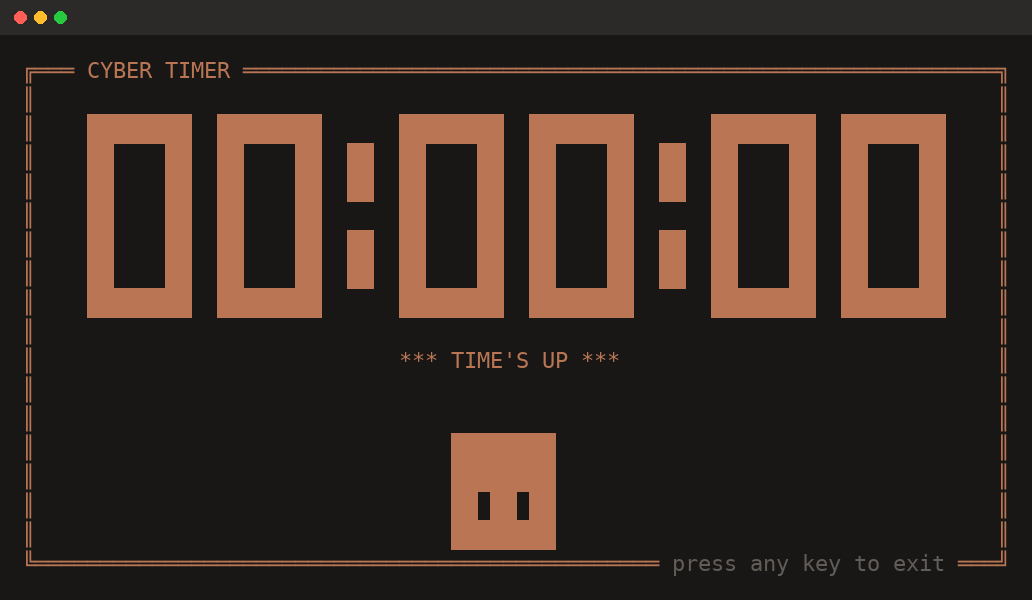
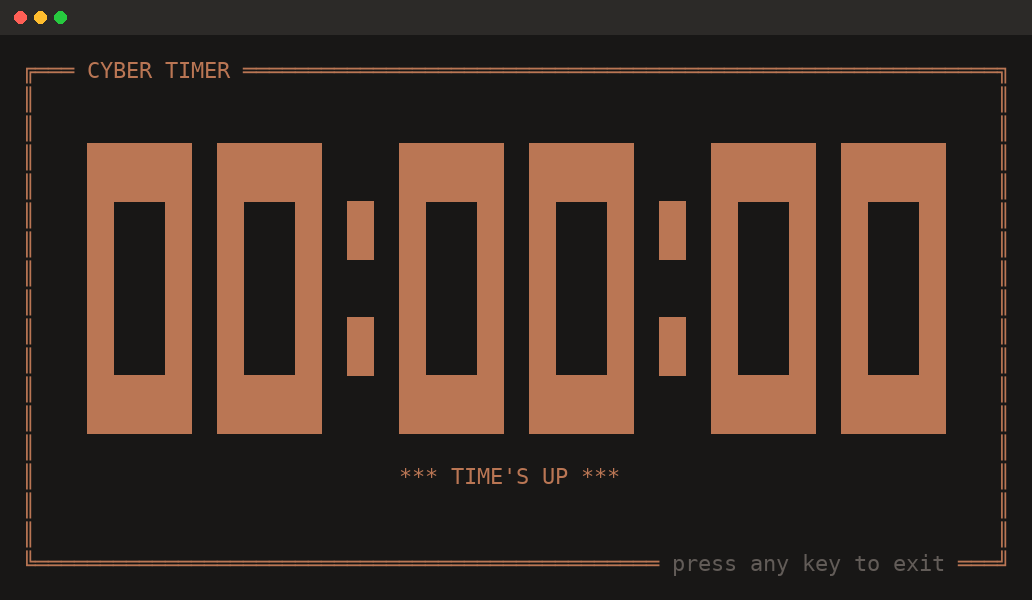
Restore the original digit scaling, cap height by width only
Revert the paired scale steps: they changed proportions everywhere when
only one case was wrong. Back to solving hRepeat and vRepeat separately
as before, with a single added clamp of vRepeat to hRepeat. A terminal
too narrow to widen the digits can no longer stretch them vertically,
which was the only case that looked elongated. Every terminal wide
enough for hRepeat 2 renders exactly as it did before.

diff --git a/lib/render.js b/lib/render.js
@@ -11,33 +11,8 @@ const {
 
 const MAX_LAP_ROWS = 6;
 
-// Horizontal and vertical scale are paired rather than solved independently:
-// a terminal cell is about twice as tall as it is wide, so letting the
-// vertical scale grow on its own stretches the digits into tall ribbons.
-//
-// Total height is given in rows rather than as a whole-number repeat of the
-// 5 glyph rows, which would only allow heights of 5, 10, 15 and force the
-// proportions to lurch between too squat and too elongated. Each step holds a
-// digit near a 0.6 width:height ratio in visual units, counting a cell as
-// twice as tall as it is wide: 4*h wide against 2*rows tall.
-const SCALE_STEPS = [
-  { hRepeat: 1, rows: 5 }, // 0.40 — floor case, one row per glyph row
-  { hRepeat: 2, rows: 7 }, // 0.57
-  { hRepeat: 3, rows: 10 }, // 0.60
-  { hRepeat: 4, rows: 13 }, // 0.62
-  { hRepeat: 5, rows: 17 }, // 0.59
-];
-
-// Spreads `total` rows across the 5 glyph rows as evenly as possible.
-function rowHeights(total) {
-  const heights = [];
-  for (let i = 0; i < GLYPH_HEIGHT; i++) {
-    heights.push(
-      Math.round(((i + 1) * total) / GLYPH_HEIGHT) - Math.round((i * total) / GLYPH_HEIGHT),
-    );
-  }
-  return heights;
-}
+const MAX_HREPEAT = 2;
+const MAX_VREPEAT = 2;
 
 // Always hh:mm:ss, zero-padded — the hours field stays on screen even at
 // 00 so the readout never changes width as time crosses an hour boundary.
@@ -53,31 +28,30 @@ function minContentWidth(chars) {
   return chars.reduce((sum, c) => sum + glyphWidth(c, 1), 0) + (chars.length - 1);
 }
 
-function scaledWidth(chars, hRepeat) {
-  return (
-    chars.reduce((sum, c) => sum + glyphWidth(c, hRepeat), 0) + (chars.length - 1) * hRepeat
-  );
-}
-
-// Picks the largest paired step that fits. Because the pair is fixed, a tall
-// but narrow terminal drops to a smaller step instead of growing the digits
-// vertically until they look elongated.
+// Solves hRepeat/vRepeat to keep the digits compact (capped well below what
+// the terminal could hold) rather than stretching to fill the screen. Every
+// glyph column scales with hRepeat, including the inter-glyph gap, so the
+// whole readout is (unitTotal + gaps) * hRepeat columns wide.
 function pickScale(chars, cols, rows) {
   const availableWidth = Math.max(cols - 6, 6);
-  const availableHeight = Math.max(rows - 6, GLYPH_HEIGHT);
+  const availableHeight = Math.max(rows - 6, GLYPH_HEIGHT + 2);
 
-  for (let i = SCALE_STEPS.length - 1; i >= 0; i--) {
-    const step = SCALE_STEPS[i];
-    if (scaledWidth(chars, step.hRepeat) <= availableWidth && step.rows <= availableHeight) {
-      return step;
-    }
-  }
-  return SCALE_STEPS[0];
+  const unitTotal = chars.reduce((sum, c) => sum + glyphWidth(c, 1), 0) + (chars.length - 1);
+  const hRepeat = Math.max(1, Math.min(Math.floor(availableWidth / unitTotal), MAX_HREPEAT));
+
+  // Height is additionally capped by hRepeat. A terminal that is tall but too
+  // narrow to widen the digits would otherwise still stretch them vertically,
+  // which is the one case where they came out elongated.
+  const vRepeat = Math.max(
+    1,
+    Math.min(Math.floor(availableHeight / GLYPH_HEIGHT), MAX_VREPEAT, hRepeat),
+  );
+
+  return { hRepeat, vRepeat };
 }
 
 function buildDigitRows(chars, scale, color) {
-  const { hRepeat, rows } = scale;
-  const heights = rowHeights(rows);
+  const { hRepeat, vRepeat } = scale;
   const lines = [];
 
   for (let glyphRow = 0; glyphRow < GLYPH_HEIGHT; glyphRow++) {
@@ -87,7 +61,7 @@ function buildDigitRows(chars, scale, color) {
       if (i < chars.length - 1) rawLine += ' '.repeat(hRepeat);
     });
     const colored = fg(...color, rawLine);
-    for (let r = 0; r < heights[glyphRow]; r++) lines.push(colored);
+    for (let r = 0; r < vRepeat; r++) lines.push(colored);
   }
   return lines;
 }

diff --git a/README.md b/README.md
@@ -149,6 +149,9 @@ cyber-timer sw --title "LAP"
 - The display fills the terminal and re-lays out on resize. On terminals too
   narrow for the segment font it falls back to a plain readout rather than
   breaking the layout.
+- Digits never grow taller than their width allows, so a tall but narrow
+  terminal renders them at their natural proportions instead of stretching
+  them into ribbons.
 - Everything is drawn on the alternate screen buffer, so your scrollback is
   left untouched when the timer exits.
 
